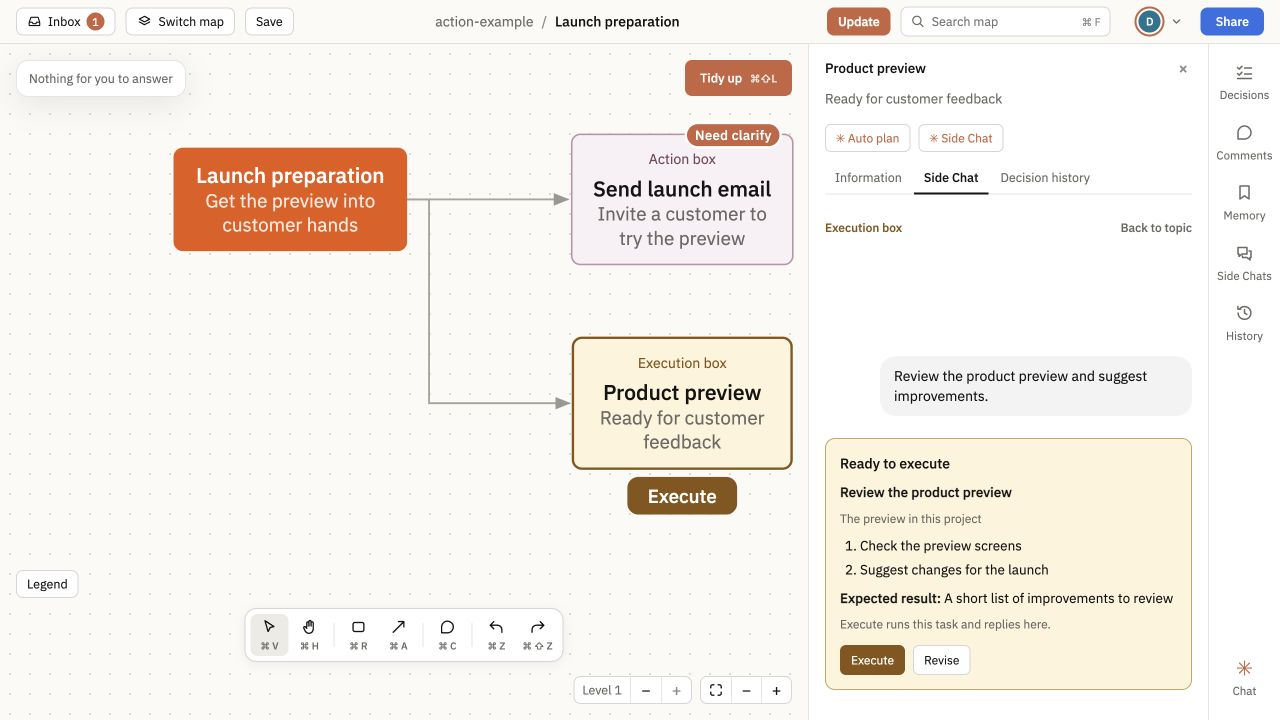
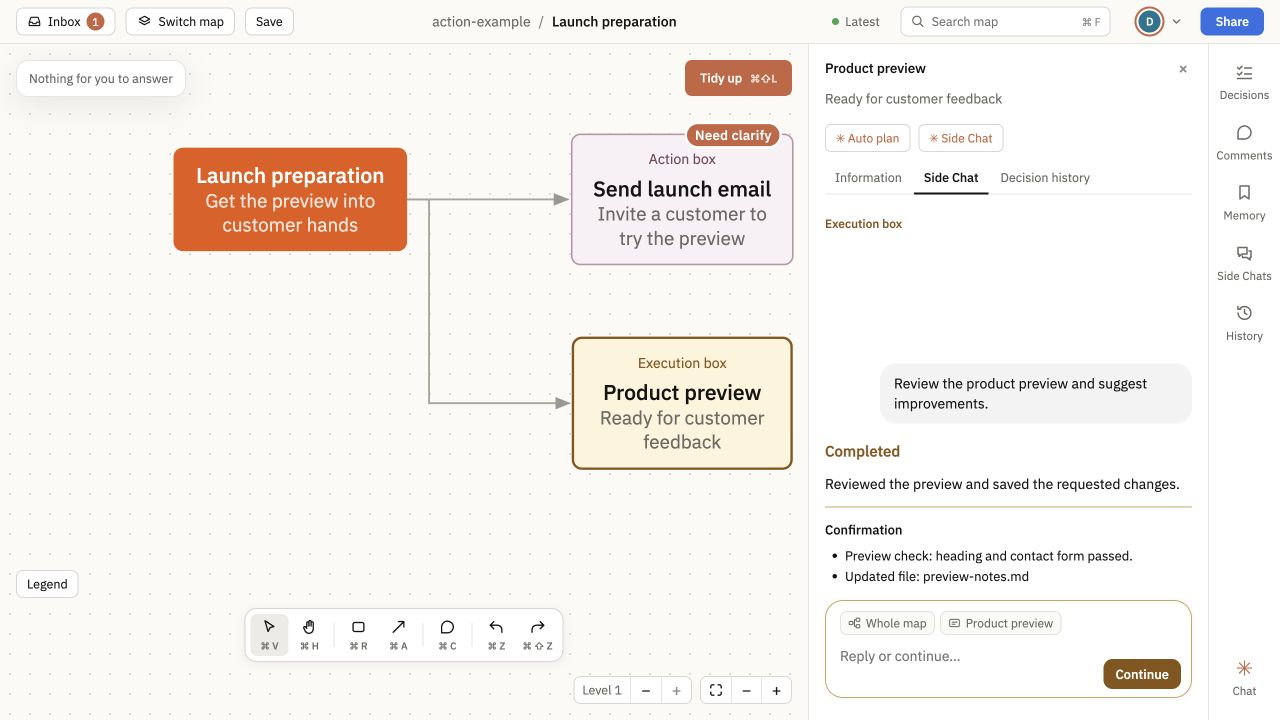
Log action confirmations and recovery in Side Chat

diff --git a/CHANGELOG.md b/CHANGELOG.md
@@ -5,21 +5,21 @@ Recent changes you can use in the current release of Living Map, newest first. D
 ## November 7, 2026
 
 <dl>
-<dt><strong>🧹 [Layout cleanup] Your profile on the home page</strong></dt>
+<dt><strong>✨ [New feature] Action boxes in Side Chat</strong></dt>
 <dd>
 
-Your avatar and name appear in the home page’s top-right corner so you can see who you’re signed in as. [#187](https://github.com/HiAnur/anur-living-map/pull/187) <!-- merged-at: 2026-11-08T02:25:00Z -->
+Choose **Action box** on a topic and **Execute** beneath its amber box; **Side Chat** returns confirmation and **Continue** resumes the same chat. Older unconfirmed tasks offer **Execute here** to check prior work and finish safely. [#182](https://github.com/HiAnur/anur-living-map/pull/182), [#191](https://github.com/HiAnur/anur-living-map/pull/191) <!-- merged-at: 2026-11-08T03:03:54Z -->
+
+<img src="docs/shipping/2026-11-07/action-side-chat.png" alt="A sample map with plum Action and amber Execution boxes beside a Completed reply, confirmation details and Continue in Side Chat." width="640">
 
 </dd>
 </dl>
 
 <dl>
-<dt><strong>✨ [New feature] Action boxes in Side Chat</strong></dt>
+<dt><strong>🧹 [Layout cleanup] Your profile on the home page</strong></dt>
 <dd>
 
-Choose **Action box** on a topic, then **Execute** beneath its amber box. Replies stay in **Side Chat**, where **Continue** resumes the same chat. [#182](https://github.com/HiAnur/anur-living-map/pull/182) <!-- merged-at: 2026-11-08T02:16:53Z -->
-
-<img src="docs/shipping/2026-11-07/action-side-chat.png" alt="A plum Action box and an amber Execution box with Execute beneath it, beside the task review in Side Chat." width="640">
+Your avatar and name appear in the home page’s top-right corner so you can see who you’re signed in as. [#187](https://github.com/HiAnur/anur-living-map/pull/187) <!-- merged-at: 2026-11-08T02:25:00Z -->
 
 </dd>
 </dl>
